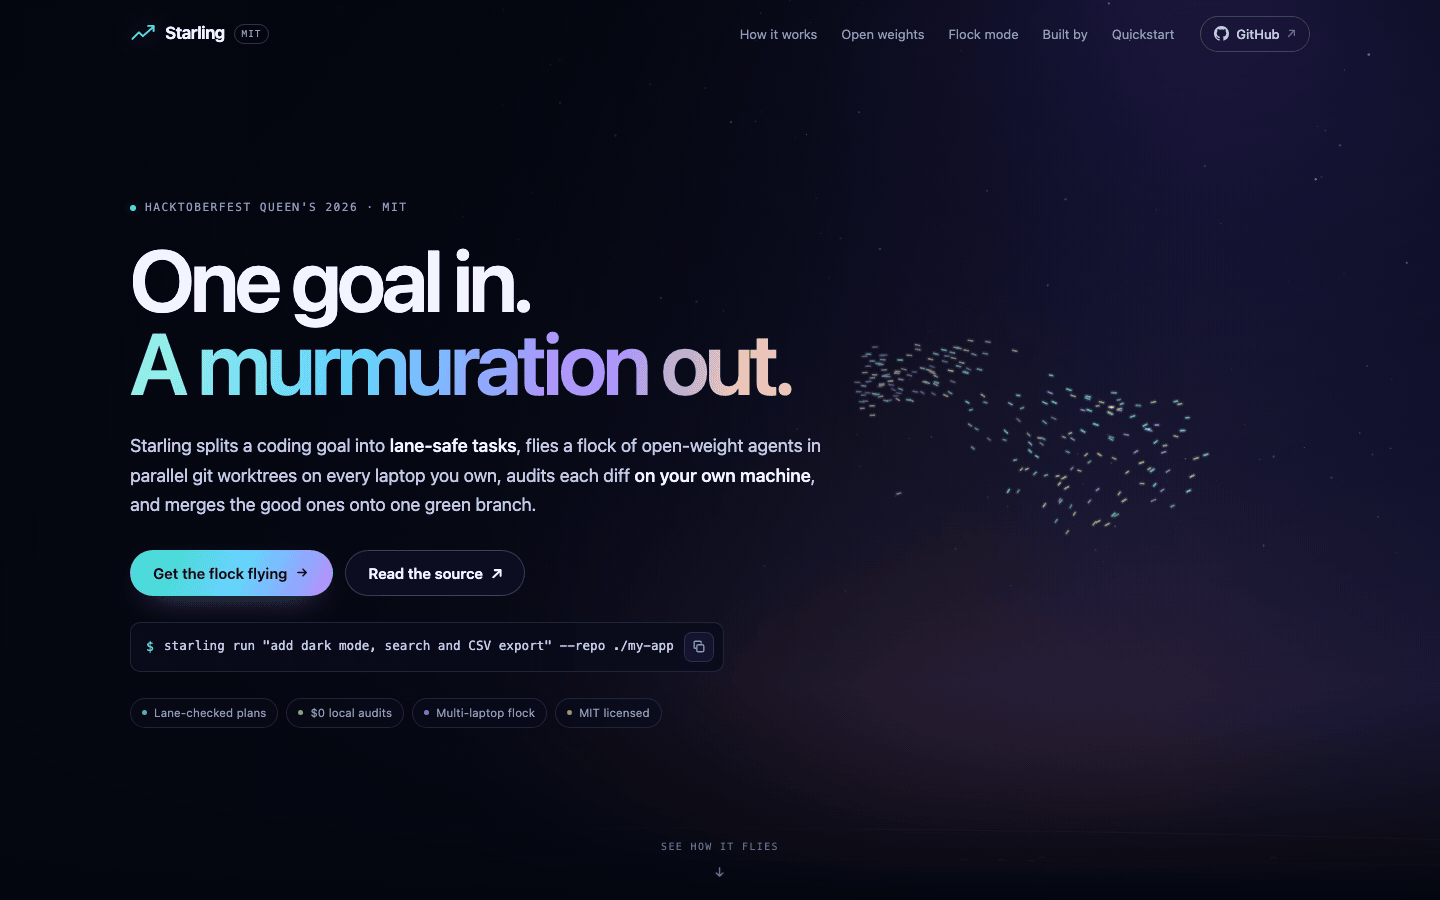
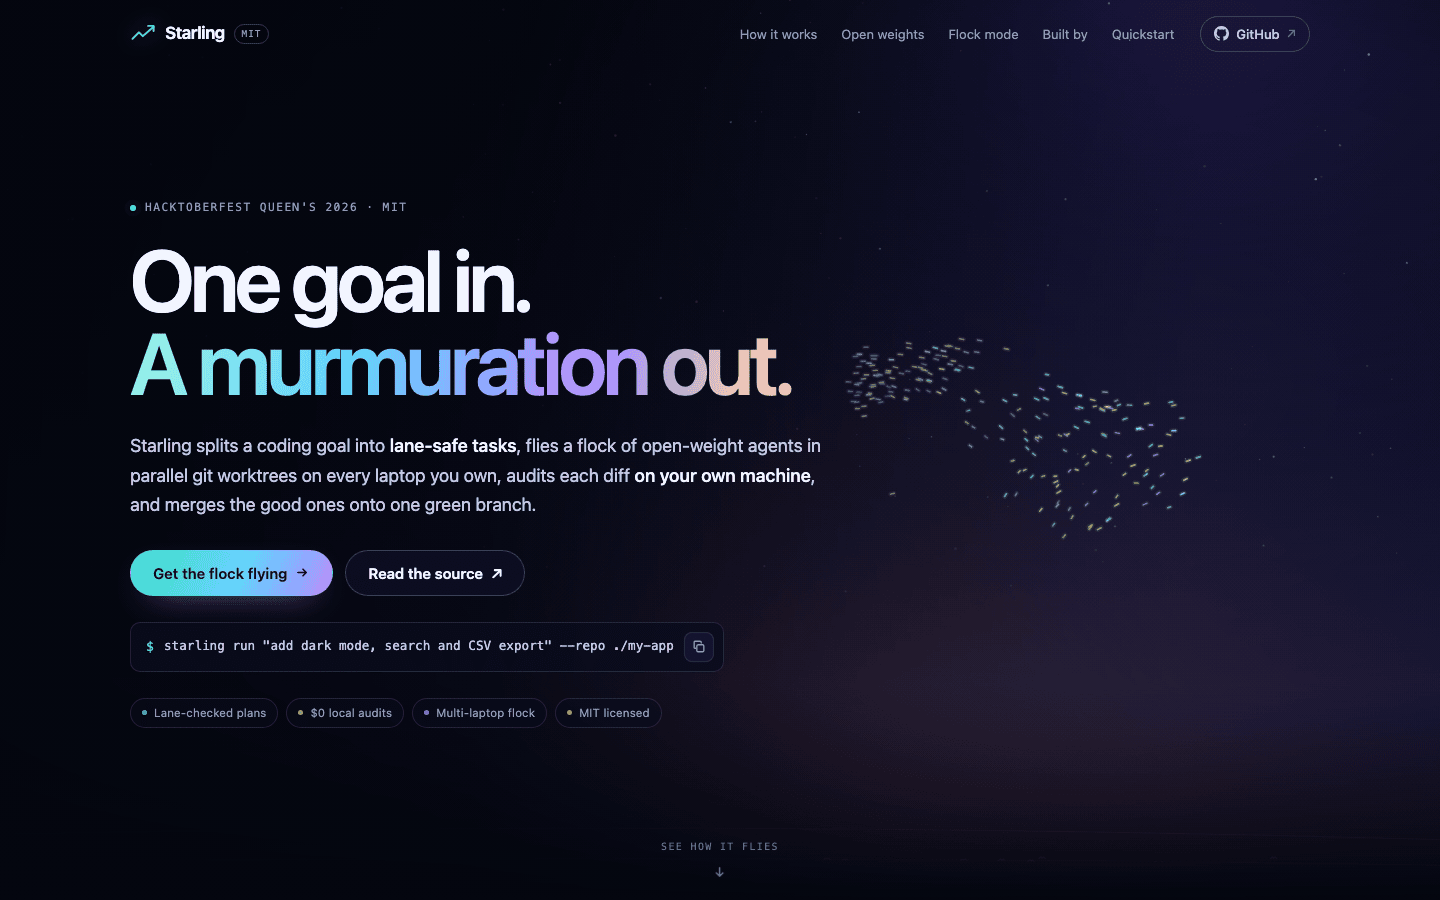
fix(site): keep commands and stats inside phone gutters

diff --git a/site/src/styles.css b/site/src/styles.css
@@ -1235,18 +1235,20 @@ canvas {
 }
 
 .stat-note {
-  display: flex;
-  align-items: center;
-  gap: 9px;
+  position: relative;
   margin-top: 20px;
+  padding-left: 16px;
   font-family: var(--font-mono);
   font-size: 0.66rem;
   line-height: 1.6;
   color: var(--ink-4);
 }
 
-.stat-pulse {
-  flex: none;
+.stat-note::before {
+  content: "";
+  position: absolute;
+  top: 0.6em;
+  left: 0;
   width: 6px;
   height: 6px;
   border-radius: 50%;
@@ -1257,12 +1259,13 @@ canvas {
 /* ── quickstart ──────────────────────────────────────────────────────────────────────────── */
 .quick-grid {
   display: grid;
-  grid-template-columns: 1.12fr 0.88fr;
+  grid-template-columns: minmax(0, 1.12fr) minmax(0, 0.88fr);
   gap: 22px;
   align-items: start;
 }
 
 .terminal {
+  min-width: 0;
   border: 1px solid var(--hairline);
   border-radius: var(--radius-lg);
   background: rgb(4 6 15 / 78%);
@@ -1335,6 +1338,7 @@ canvas {
 
 .term-line code {
   display: block;
+  min-width: 0;
   overflow-x: auto;
   padding: 2px 0;
   font-size: 0.78rem;
@@ -1587,7 +1591,7 @@ canvas {
   .split,
   .flock-grid,
   .quick-grid {
-    grid-template-columns: 1fr;
+    grid-template-columns: minmax(0, 1fr);
   }
 
   .split {
@@ -1614,6 +1618,10 @@ canvas {
 @media (max-width: 900px) {
   .nav-links {
     display: none;
+  }
+
+  .nav-links + .gh-link {
+    margin-left: auto;
   }
 
   .steps {

diff --git a/site/index.html b/site/index.html
@@ -230,7 +230,7 @@
               <li>
                 <strong>No API key needed.</strong> Route every role through the opencode session you
                 already pay for, or run the whole thing on Ollama with
-                <code>--fully-open</code>.
+                <code>--fully-open</code> routing.
               </li>
             </ul>
             <p class="source-note">
@@ -387,9 +387,8 @@
           </div>
 
           <p class="stat-note reveal">
-            <span class="stat-pulse" aria-hidden="true"></span>
             Snapshot of this build, regenerated from git and GitHub into
-            <code>site/data/stats.json</code>. <span data-stats-date>27 October 2026</span>
+            <code>site/data/stats.json</code> on <span data-stats-date>27 October 2026</span>.
           </p>
         </div>
       </section>
@@ -444,7 +443,9 @@ bun run starling run "add dark mode and CSV export" --repo ../my-app</code>
               <p class="term-foot">
                 Add <code>--dry-run</code> to see the plan and lanes first. From a checkout the binary is
                 <code>bun run starling …</code>; on your <code>PATH</code> it is just
-                <code>starling …</code>.
+                <code>starling …</code>. Prefer the full sky?
+                <code>bun run starling dash</code> serves the dashboard on
+                <code>localhost:7777</code>.
               </p>
             </div>
 
